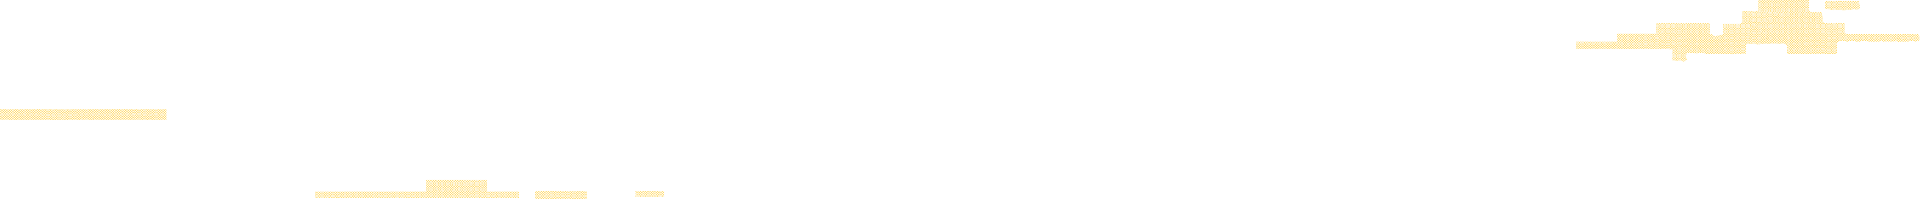
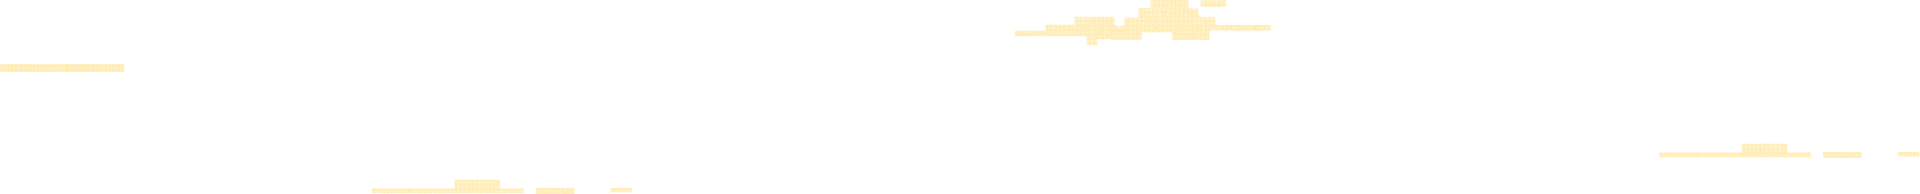
Updated fossils

diff --git a/src/Rock.js b/src/Rock.js
@@ -4,6 +4,7 @@ export default class Rock {
     constructor(scene, config) {
         this.scene = scene;
         this.rockBase = config.rockBase;
+        this.maxRock = 4;
 
         this._colliders = [];
         this._sprite = this.scene.physics.add.sprite(config.x, config.y, 'rock1');
@@ -48,11 +49,83 @@ export default class Rock {
             this.rockCircle3.setVelocityX(speed); // Keep horizontal movement
         }
 
-        var nextRock = Math.floor(Math.random() * 3) + 1;
+        var nextRock = 1 + Math.floor(Math.random() * (this.maxRock - 1));
         this._sprite.setTexture('rock' + nextRock);
+        // console.log("rock: ", nextRock);
 
         switch (nextRock) {
+
+            case 2:
+                this.rockRect1.setSize(this._sprite.width * 0.95, this._sprite.height / 2, true);
+                this.rockCircle1.body.setCircle((this._sprite.height / 2) * 0.8);
+                this.rockCircle1.body.setOffset(-30, -0);
+                this.rockCircle2.body.setCircle(20);
+                this.rockCircle2.body.setOffset(-30, -10);
+                this.rockCircle3.body.setCircle(20);
+                this.rockCircle3.body.setOffset(-30, -10);
+                break;
+            case 3:
+                this.rockRect1.setSize(this._sprite.width * 0.9, this._sprite.height * 0.6, true);
+                this.rockRect1.setOffset(-40, -40);
+                this.rockCircle1.body.setCircle(30);
+                this.rockCircle1.body.setOffset(-10, 0);
+                this.rockCircle2.body.setCircle(20);
+                this.rockCircle2.body.setOffset(-40, -10);
+                this.rockCircle3.body.setCircle(20);
+                this.rockCircle3.body.setOffset(-30, -10);
+                break;
+            case 4:
+                this.rockRect1.setSize(this._sprite.width * 0.9, this._sprite.height * 0.4, true);
+                this.rockRect1.setOffset(-40, -40);
+                this.rockCircle1.body.setCircle(30);
+                this.rockCircle1.body.setOffset(-20, 0);
+                this.rockCircle2.body.setCircle(10);
+                this.rockCircle2.body.setOffset(-30, -10);
+                this.rockCircle3.body.setCircle(20);
+                this.rockCircle3.body.setOffset(25, -15);
+                break;
+            case 5:
+                this.rockRect1.setSize(100, 130, true);
+                this.rockRect1.setOffset(-30, -90);
+                this.rockCircle1.body.setCircle(30);
+                this.rockCircle1.body.setOffset(-80, 70);
+                this.rockCircle2.body.setCircle(40);
+                this.rockCircle2.body.setOffset(20, -20);
+                this.rockCircle3.body.setCircle(20);
+                this.rockCircle3.body.setOffset(80, 40);
+                break;
+            case 6:
+                this.rockRect1.setSize(120, 50, true);
+                this.rockRect1.setOffset(-40, -20);
+                this.rockCircle1.body.setCircle(30);
+                this.rockCircle1.body.setOffset(-30, 30);
+                this.rockCircle2.body.setCircle(40);
+                this.rockCircle2.body.setOffset(-10, -50);
+                this.rockCircle3.body.setCircle(20);
+                this.rockCircle3.body.setOffset(39, -49);
+                break;
+            case 7:
+                this.rockRect1.setSize(140, 50, true);
+                this.rockRect1.setOffset(-55, -30);
+                this.rockCircle1.body.setCircle(30);
+                this.rockCircle1.body.setOffset(-50, 30);
+                this.rockCircle2.body.setCircle(40);
+                this.rockCircle2.body.setOffset(-20, -60);
+                this.rockCircle3.body.setCircle(40);
+                this.rockCircle3.body.setOffset(0, -49);
+                break;
+            case 8:
+                this.rockRect1.setSize(190, 50, true);
+                this.rockRect1.setOffset(-80, -30);
+                this.rockCircle1.body.setCircle(40);
+                this.rockCircle1.body.setOffset(-70, 30);
+                this.rockCircle2.body.setCircle(40);
+                this.rockCircle2.body.setOffset(10, -60);
+                this.rockCircle3.body.setCircle(20);
+                this.rockCircle3.body.setOffset(60, 0);
+                break;
             case 1:
+            default:
                 this.rockRect1.setSize(this._sprite.width * 0.84, this._sprite.height / 3, true);
                 this.rockCircle1.body.setCircle(this._sprite.width * 0.3);
                 this.rockCircle1.body.setOffset(-15, -8);
@@ -60,38 +133,6 @@ export default class Rock {
                 this.rockCircle2.body.setOffset(-33, 5);
                 this.rockCircle3.body.setCircle(20);
                 this.rockCircle3.body.setOffset(40, -78);
-                break;
-            case 2:
-                this.rockRect1.setSize(this._sprite.width * 0.95, this._sprite.height / 2, true);
-                this.rockCircle1.body.setCircle((this._sprite.height / 2) * 0.8);
-                this.rockCircle1.body.setOffset(-30, -0);
-                this.rockCircle2.body.setCircle(20);
-                this.rockCircle2.body.setOffset(-30, -10);
-
-                this.rockCircle3.body.setCircle(20);
-                this.rockCircle3.body.setOffset(-30, -10);
-                break;
-            case 3:
-                this.rockRect1.setSize(this._sprite.width * 0.9, this._sprite.height * 0.6, true);
-                this.rockRect1.setOffset(-40, -40);
-                this.rockCircle1.body.setCircle((this._sprite.height / 2) * 0.72);
-                this.rockCircle1.body.setOffset(-20, -10);
-                this.rockCircle2.body.setCircle(20);
-                this.rockCircle2.body.setOffset(-40, -10);
-
-                this.rockCircle3.body.setCircle(20);
-                this.rockCircle3.body.setOffset(-50, -10);
-                break;
-            case 4:
-                this.rockRect1.setSize(this._sprite.width * 0.9, this._sprite.height * 0.4, true);
-                this.rockRect1.setOffset(-60, -40);
-                this.rockCircle1.body.setCircle((this._sprite.height / 2) * 0.74);
-                this.rockCircle1.body.setOffset(-48, -10);
-                this.rockCircle2.body.setCircle(20);
-                this.rockCircle2.body.setOffset(-15, -70);
-                
-                this.rockCircle3.body.setCircle(20);
-                this.rockCircle3.body.setOffset(-15, -70);
                 break;
         }
 
@@ -117,7 +158,7 @@ export default class Rock {
     resetRockPos(speed) {
         this.setVelocityX(0)
         this.updateSprite();
-        var nextPos = this.scene.scale.width + (Math.random() * this.scene.scale.width * 0.5);
+        var nextPos = this.scene.scale.width + (this._sprite.width * (1 + (Math.random() * 4)));
         this.setX(nextPos);
         this.playerPassed = false;
         this.setVelocityX(speed);
@@ -128,11 +169,15 @@ export default class Rock {
         return this._colliders;
     }
 
-    getX(){
+    getX() {
         return this._sprite.x;
     }
 
-    getY(){
+    getY() {
         return this._sprite.y;
+    }
+
+    updateMaxRock(val) {
+        this.maxRock = val;
     }
 }

diff --git a/src/scenes/gameScene.js b/src/scenes/gameScene.js
@@ -54,7 +54,7 @@ export default class GameScene extends Phaser.Scene {
 
         this.gravityY = 0;
         this.rockSpeed = -700;
-        this.rockStepSpeed = 50;
+        this.rockStepSpeed = 30;
         this.jumpVelocity = -800;
         this.jumpStepVelocity = 20;
 
@@ -169,18 +169,7 @@ export default class GameScene extends Phaser.Scene {
             }
         }
 
-        //rock left screen
-        if (this.rock._sprite.x + this.rock._sprite.width < 0) {
-            this.rock.resetRockPos(this.rockSpeed);
-            this.spawnCoins(this.rock.getX(), this.rock.getY() - 100);
 
-            var spawnCoin = Math.floor(Math.random() * 10);
-            if (spawnCoin > 1 && spawnCoin < 9) {
-                this.spawnCoins(
-                    this.rock.getX() + (0.5 * this.scale.width),//this.rock.getX() + 520,
-                    this.rock.getY() - 100);
-            }
-        }
 
         //level up
 
@@ -196,7 +185,32 @@ export default class GameScene extends Phaser.Scene {
                 this.player.updateLevel(newLevel, () => {
                     this.player._currPlayer.setY(this.ground.y - this.player._currPlayer.height);
                     this.level = newLevel;
+                    this.rockLeftScreen();
                 }, this.ground);
+            }
+            else{
+                if(newLevel >= this.levelSprites.length){
+                    this.rock.updateMaxRock(8);
+                }
+                this.rockLeftScreen();
+            }
+        }
+        else {
+            this.rockLeftScreen();
+        }
+    }
+
+    rockLeftScreen() {
+        //rock left screen
+        if (this.rock._sprite.x + this.rock._sprite.width < 0) {
+            this.rock.resetRockPos(this.rockSpeed);
+            this.spawnCoins(this.rock.getX(), this.rock.getY() - 100);
+
+            var spawnCoin = Math.floor(Math.random() * 10);
+            if (spawnCoin > 1 && spawnCoin < 9) {
+                this.spawnCoins(
+                    this.rock.getX() + (0.5 * this.scale.width),//this.rock.getX() + 520,
+                    this.rock.getY() - 100);
             }
         }
     }
@@ -225,9 +239,9 @@ export default class GameScene extends Phaser.Scene {
         this.name = name;
         this.company = company;
         this.email = email;
-        console.log(name);
-        console.log(company);
-        console.log(email);
+        // console.log(name);
+        // console.log(company);
+        // console.log(email);
 
         this.startPopup.setVisible(false);
 
@@ -262,7 +276,7 @@ export default class GameScene extends Phaser.Scene {
 
     async showGameOver() {
         this.gameOverPopup.setLevel(this.level);
-        this.gameOverPopup.setScore(this.ui.getScore() + (this.coinsCollected * 10));
+        this.gameOverPopup.setScore(this.ui.getScore() + this.coinsCollected);
         this.gameOverPopup.setVisible(true);
         this.gameStart = false;
 
@@ -270,7 +284,7 @@ export default class GameScene extends Phaser.Scene {
             userName: this.name,
             userCompany: this.company,
             userEmailId: this.email,
-            userScore: this.ui.getScore() + (this.coinsCollected * 10)
+            userScore: this.ui.getScore() + this.coinsCollected
         });
 
     }

diff --git a/src/scenes/landingScene.js b/src/scenes/landingScene.js
@@ -73,6 +73,10 @@ export default class LandingScene extends Phaser.Scene {
         this.load.image('rock2', 'assets/Fossil/rock2.png');
         this.load.image('rock3', 'assets/Fossil/rock3.png');
         this.load.image('rock4', 'assets/Fossil/rock4.png');
+        this.load.image('rock5', 'assets/Fossil/rock5.png');
+        this.load.image('rock6', 'assets/Fossil/rock6.png');
+        this.load.image('rock7', 'assets/Fossil/rock7.png');
+        this.load.image('rock8', 'assets/Fossil/rock8.png');
         //LIZARD_JUMP
         this.load.image('LizardJump_000001', 'assets/lizard/jump/Lizard_jumpo_000001.png');
         this.load.image('LizardJump_000002', 'assets/lizard/jump/Lizard_jumpo_000003.png');

diff --git a/src/popups/LeaderboardPopup.js b/src/popups/LeaderboardPopup.js
@@ -45,7 +45,7 @@ export default class LeaderboardPopup extends Phaser.GameObjects.Container {
     const listY = -height / 2 + (this.headerHeight + 10);
     const listWidth = width - (this.paddingX * 2) - 40; // room for scrollbar
     const listHeight = (height * 0.7) - (this.headerHeight);
-    console.log(listHeight);
+    // console.log(listHeight);
 
     this._listX = listX;
     this._listY = listY;

diff --git a/src/popups/gameOverPopup.js b/src/popups/gameOverPopup.js
@@ -127,7 +127,7 @@ export default class GameOverPopup {
         this.score.setVisible(flag);
         this.title.setVisible(flag);
 
-        console.log(this.level);
+        // console.log(this.level);
         if (this.level == 0) {
             this.fossil_lizard.setVisible(flag);
             this.text.setPosition(this.text.x, this.fossil_lizard.y + (this.fossil_lizard.height * 0.2))
